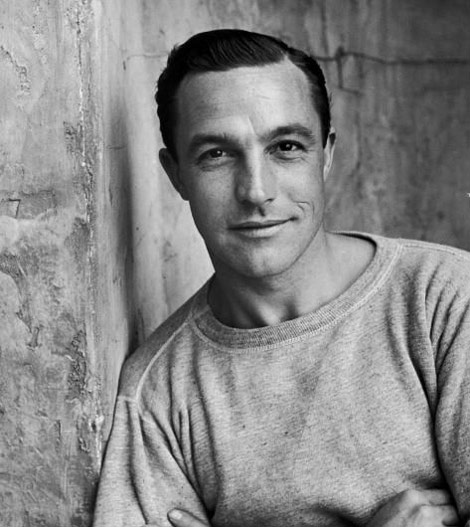
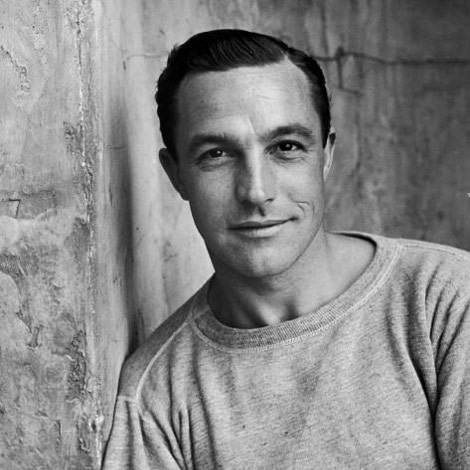
Changed images to circles and added columns.

diff --git a/theatre-program.html b/theatre-program.html
@@ -1,34 +1,42 @@
 <!DOCTYPE html>
 <html>
-<head>
-  <href="css/styles.css" rel="stylesheet" type="text/css">
-  <title>Theatre Program</title>
-</head>
+  <head>
+    <link href="css/styles.css" rel="stylesheet" type="text/css">
+    <title>Theatre Program</title>
+  </head>
 
-<body>
-  <h1>Waiting for Godot</h1>
-  <h2>A play by Samuel Beckett</h2>
-  <p>Lorem ipsum dolor sit amet, consectetur adipisicing elit, sed do eiusmod tempor incididunt ut labore et dolore magna aliqua. Ut enim ad minim veniam, quis nostrud exercitation ullamco laboris nisi ut aliquip ex ea commodo consequat. Duis aute irure dolor in reprehenderit in voluptate velit esse cillum dolore eu fugiat nulla pariatur. Excepteur sint occaecat cupidatat non proident, sunt in culpa qui officia deserunt mollit anim id est laborum.</p>
+  <body>
+      <h1>Waiting for Godot</h1>
+      <h2>A play by Samuel Beckett</h2>
+      <p>Lorem ipsum dolor sit amet, consectetur adipisicing elit, sed do eiusmod tempor incididunt ut labore et dolore magna aliqua. Ut enim ad minim veniam, quis nostrud exercitation ullamco laboris nisi ut aliquip ex ea commodo consequat. Duis aute irure dolor in reprehenderit in voluptate velit esse cillum dolore eu fugiat nulla pariatur. Excepteur sint occaecat cupidatat non proident, sunt in culpa qui officia deserunt mollit anim id est laborum.</p>
 
-  <img src="img/genekelly.jpg" atl="An image of actor Gene Kelly.">
-  <h3>Gene Kelly</h3>
-  <h4>Vladimir</h4>
-  <p>Lorem ipsum dolor sit amet, consectetur adipisicing elit, sed do eiusmod tempor incididunt ut labore et dolore magna aliqua. Ut enim ad minim veniam, quis nostrud exercitation ullamco laboris nisi ut aliquip ex ea commodo consequat. Duis aute irure dolor in reprehenderit in voluptate velit esse cillum dolore eu fugiat nulla pariatur. Excepteur sint occaecat cupidatat non proident, sunt in culpa qui officia deserunt mollit anim id est laborum.</p>
+    <div class="column">
+      <img class="img-circle" src="img/genekelly.jpg" atl="An image of actor Gene Kelly.">
+      <h3>Gene Kelly</h3>
+      <h4>Vladimir</h4>
+      <p>Lorem ipsum dolor sit amet, consectetur adipisicing elit, sed do eiusmod tempor incididunt ut labore et dolore magna aliqua. Ut enim ad minim veniam, quis nostrud exercitation ullamco laboris nisi ut aliquip ex ea commodo consequat. Duis aute irure dolor in reprehenderit in voluptate velit esse cillum dolore eu fugiat nulla pariatur. Excepteur sint occaecat cupidatat non proident, sunt in culpa qui officia deserunt mollit anim id est laborum.</p>
+    </div>
 
-  <img src="img/hughgrant.jpg" alt="An image of actor Hugh Grant.">
-  <h3>Hugh Grant</h3>
-  <h4>Estragon</h4>
-  <p>Lorem ipsum dolor sit amet, consectetur adipisicing elit, sed do eiusmod tempor incididunt ut labore et dolore magna aliqua. Ut enim ad minim veniam, quis nostrud exercitation ullamco laboris nisi ut aliquip ex ea commodo consequat. Duis aute irure dolor in reprehenderit in voluptate velit esse cillum dolore eu fugiat nulla pariatur. Excepteur sint occaecat cupidatat non proident, sunt in culpa qui officia deserunt mollit anim id est laborum.</p>
+    <div class="column">
+      <img class="img-circle" src="img/hughgrant.jpg" alt="An image of actor Hugh Grant.">
+      <h3>Hugh Grant</h3>
+      <h4>Estragon</h4>
+      <p>Lorem ipsum dolor sit amet, consectetur adipisicing elit, sed do eiusmod tempor incididunt ut labore et dolore magna aliqua. Ut enim ad minim veniam, quis nostrud exercitation ullamco laboris nisi ut aliquip ex ea commodo consequat. Duis aute irure dolor in reprehenderit in voluptate velit esse cillum dolore eu fugiat nulla pariatur. Excepteur sint occaecat cupidatat non proident, sunt in culpa qui officia deserunt mollit anim id est laborum.</p>
+    </div>
 
-  <img src="img/dorrisday.jpg" alt="An image of actress Dorris Day.">
-  <h3>Dorris Day</h3>
-  <h4>Pozzo</h4>
-  <p>Lorem ipsum dolor sit amet, consectetur adipisicing elit, sed do eiusmod tempor incididunt ut labore et dolore magna aliqua. Ut enim ad minim veniam, quis nostrud exercitation ullamco laboris nisi ut aliquip ex ea commodo consequat. Duis aute irure dolor in reprehenderit in voluptate velit esse cillum dolore eu fugiat nulla pariatur. Excepteur sint occaecat cupidatat non proident, sunt in culpa qui officia deserunt mollit anim id est laborum.</p>
+    <div class="column">
+      <img class ="img-circle" src="img/dorrisday.jpg" alt="An image of actress Dorris Day.">
+      <h3>Dorris Day</h3>
+      <h4>Pozzo</h4>
+      <p>Lorem ipsum dolor sit amet, consectetur adipisicing elit, sed do eiusmod tempor incididunt ut labore et dolore magna aliqua. Ut enim ad minim veniam, quis nostrud exercitation ullamco laboris nisi ut aliquip ex ea commodo consequat. Duis aute irure dolor in reprehenderit in voluptate velit esse cillum dolore eu fugiat nulla pariatur. Excepteur sint occaecat cupidatat non proident, sunt in culpa qui officia deserunt mollit anim id est laborum.</p>
+    </div>
 
-  <img src="img/forestwhitaker.jpg" alt="An image of actor Forest Whitaker.">
-  <h3>Forest Whitaker</h3>
-  <h4>Lucky</h4>
-  <p>Lorem ipsum dolor sit amet, consectetur adipisicing elit, sed do eiusmod tempor incididunt ut labore et dolore magna aliqua. Ut enim ad minim veniam, quis nostrud exercitation ullamco laboris nisi ut aliquip ex ea commodo consequat. Duis aute irure dolor in reprehenderit in voluptate velit esse cillum dolore eu fugiat nulla pariatur. Excepteur sint occaecat cupidatat non proident, sunt in culpa qui officia deserunt mollit anim id est laborum.</p>
+    <<div class="column">
+      <img class="img-circle" src="img/forestwhitaker.jpg" alt="An image of actor Forest Whitaker.">
+      <h3>Forest Whitaker</h3>
+      <h4>Lucky</h4>
+      <p>Lorem ipsum dolor sit amet, consectetur adipisicing elit, sed do eiusmod tempor incididunt ut labore et dolore magna aliqua. Ut enim ad minim veniam, quis nostrud exercitation ullamco laboris nisi ut aliquip ex ea commodo consequat. Duis aute irure dolor in reprehenderit in voluptate velit esse cillum dolore eu fugiat nulla pariatur. Excepteur sint occaecat cupidatat non proident, sunt in culpa qui officia deserunt mollit anim id est laborum.</p>
+    </div>
 
-</body>
+  </body>
 </html>

diff --git a/css/styles.css b/css/styles.css
@@ -1,0 +1,32 @@
+.column {
+  float: left;
+  width: 300px;
+  gap: normal;
+}
+
+.img-circle {
+  border-radius: 50%;
+  width: 125px;
+  height: 125px;
+}
+
+h1 {
+  font-family: helvetica;
+}
+
+h2 {
+  font-family: helvetica;
+}
+
+h3 {
+  font-family: helvetica;
+}
+
+h4 {
+  font-family: helvetica;
+  font-style: italic;
+}
+
+p {
+  font-family: helvetica;
+}
